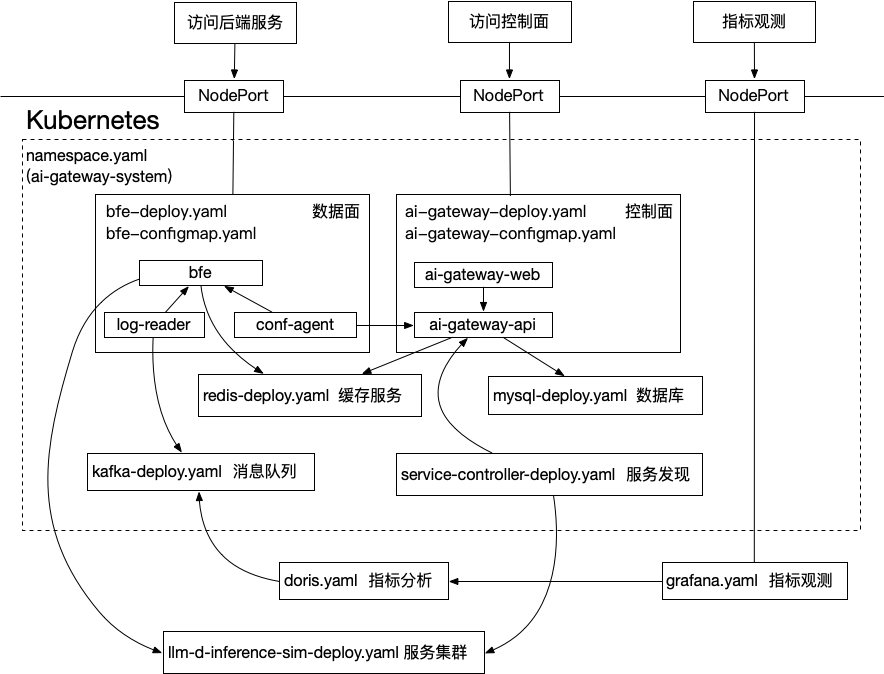
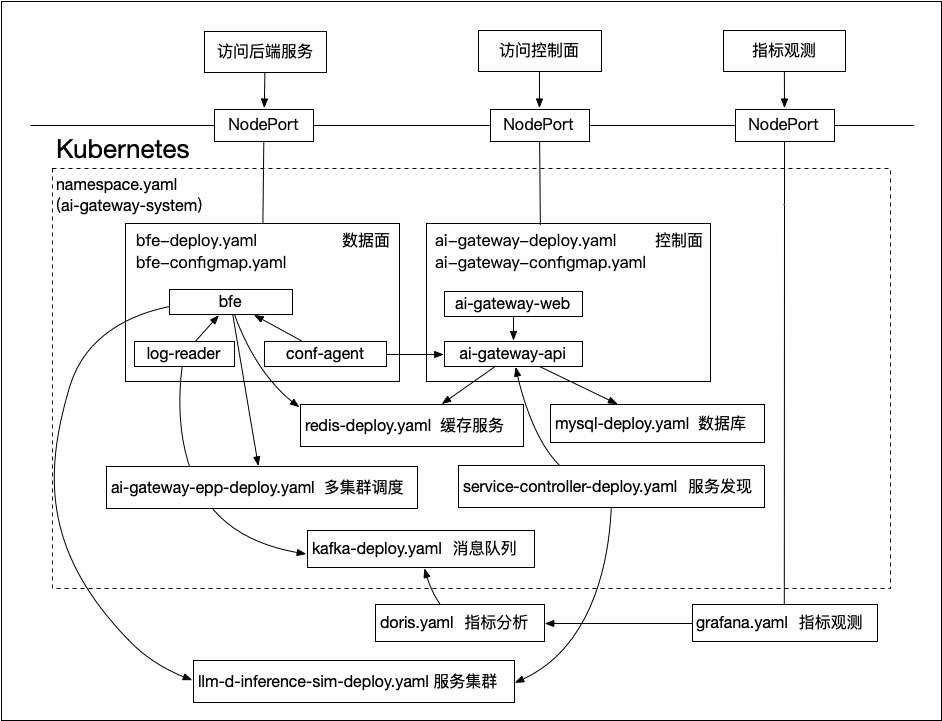
Update README and kustomization for EPP integration and version bump

diff --git a/README.md b/README.md
@@ -19,6 +19,7 @@ AI Gateway consists of the following core components:
 | **Dashboard** | Admin console | Web UI for visual management (bundled in API image) | [rainway-ai-gatewa/ai-gateway-web](https://github.com/rainway-ai-gateway/ai-gateway-web) |
 | **BFE** | Data plane | Traffic forwarding and access control | [bfenetworks/bfe](https://github.com/bfenetworks/bfe) |
 | **Conf Agent** | Config agent | Fetches config and triggers BFE hot reload | [bfenetworks/conf-agent](https://github.com/bfenetworks/conf-agent) |
+| **EPP** | Endpoint Picker | Multi-cluster endpoint discovery and routing | [rainway-ai-gateway/ai-gateway-epp](https://github.com/rainway-ai-gateway/ai-gateway-epp) |
 | **Log Reader** | Log collector | Reads BFE access logs and sends to Kafka | [bfenetworks/log-reader](https://github.com/bfenetworks/log-reader) |
 
 ## Key Features
@@ -109,7 +110,7 @@ docker compose --profile observability up -d
 Grafana: `http://localhost:3000` (admin / admin)
 Doris FE Web: `http://localhost:8030`
 
-> The Log Reader is built into the AI Gateway image and runs as the 3rd process alongside BFE and Conf Agent. It reads `pb_access3.log` and sends to Kafka. Its config is at `conf/log-reader/` and mounted into the container. If Kafka is unavailable, Log Reader retries silently without affecting traffic routing.
+> The Log Reader is built into the AI Gateway image and runs as another process alongside BFE, EPP, and Conf Agent. It reads `pb_access3.log` and sends to Kafka. Its config is at `conf/log-reader/` and mounted into the container. If Kafka is unavailable, Log Reader retries silently without affecting traffic routing.
 
 ### Manual Deployment (External MySQL / Redis)
 
@@ -223,6 +224,8 @@ Update `VERSIONS.yaml` → rebuild → tag a new product release.
 |---|---|---|
 | 8080 | BFE | HTTP entry |
 | 8443 | BFE | HTTPS entry |
+| 9002 | EPP | ext-proc gRPC (TLS) |
+| 9003 | EPP | Health check |
 | 8421 | BFE | Monitor |
 | 8183 | API Server | API + Dashboard |
 | 8284 | API Server | Monitor |
@@ -242,4 +245,5 @@ AI Gateway is released under the [Apache License 2.0](LICENSE).
 - [AI Gateway API](https://github.com/rainway-ai-gateway/ai-gateway-api) — Control plane
 - [AI Gateway Web](https://github.com/rainway-ai-gateway/ai-gateway-web) — Dashboard frontend
 - [Conf Agent](https://github.com/bfenetworks/conf-agent) — Configuration agent
+- [AI Gateway EPP](https://github.com/rainway-ai-gateway/ai-gateway-epp) — Endpoint Picker (multi-cluster scheduling)
 - [Log Reader](https://github.com/bfenetworks/log-reader) — Access log collector

diff --git a/kubernetes/README.md b/kubernetes/README.md
@@ -10,6 +10,7 @@ This deployment demonstrates the interaction of several key components in the `a
 
 - **Data plane** (bfe with conf-agent + log-reader): traffic forwarding, access control, and access log collection
 - **Control plane** (ai-gateway-api): configuration/policy delivery API
+- **Endpoint Picker** (epp / ai-gateway-epp): multi-cluster endpoint discovery, health-aware routing via gRPC ext-proc protocol
 - **Base dependencies** (MySQL, Redis, Kafka): storage and messaging services
 - ~~**Service discovery** (service-controller): discovers and syncs backend services~~ — temporarily disabled, pending refactor
 - **Demo backend** (llm-d inference simulator): validates routing
@@ -25,6 +26,7 @@ Optional observability stack (applied separately to `default` namespace):
 | conf-agent | ai-gateway-api | `ai-gateway-api.ai-gateway-system.svc.cluster.local:8183` |
 | ai-gateway-api | MySQL | `mysql.ai-gateway-system.svc.cluster.local:3306` |
 | bfe (SessionCache) | Redis | `redis.ai-gateway-system.svc.cluster.local:6379` |
+| bfe (bal_gslb) | ai-gateway-epp | `epp-0.ai-gateway-epp.ai-gateway-system.svc.cluster.local:9002` |
 | log-reader | Kafka | `kafka.ai-gateway-system.svc.cluster.local:9092` |
 | Doris Routine Load | Kafka | `kafka.ai-gateway-system.svc.cluster.local:9092` |
 | Grafana | Doris FE | `doris-fe.default.svc.cluster.local:9030` |
@@ -39,6 +41,7 @@ Optional observability stack (applied separately to `default` namespace):
 | `kustomization.yaml` | Kustomize resource aggregation and image overrides |
 | `bfe-configmap.yaml` | BFE config (bfe.conf, conf-agent.toml, log-reader config) |
 | `bfe-deploy.yaml` | BFE data plane Deployment (bfe + conf-agent + log-reader in single container) |
+| `ai-gateway-epp-deploy.yaml` | EPP StatefulSet (2 replicas) + headless Service + TLS ConfigMap |
 | `ai-gateway-configmap.yaml` | AI Gateway API configuration (DB/Redis, auth) |
 | `ai-gateway-deploy.yaml` | AI Gateway API Deployment and Service |
 | `mysql-deploy.yaml` | MySQL (Deployment, Service, init ConfigMap, init Job) |
@@ -80,7 +83,7 @@ images:
 kubectl apply -k .
 ```
 
-Deploys: bfe (with conf-agent + log-reader), ai-gateway-api (with Dashboard), mysql, redis, kafka. Service-controller is commented out in `kustomization.yaml` (pending refactor).
+Deploys: bfe (with conf-agent + log-reader), ai-gateway-epp, ai-gateway-api (with Dashboard), mysql, redis, kafka. Service-controller is commented out in `kustomization.yaml` (pending refactor).
 
 ### 3. Deploy Test Service (Optional)
 

diff --git a/README_CN.md b/README_CN.md
@@ -19,6 +19,7 @@ AI Gateway 包含如下核心组件：
 | **Dashboard** | 管理控制台 | Web 可视化管理界面（内置在 API 镜像中） | [rainway-ai-gatewa/ai-gateway-web](https://github.com/rainway-ai-gateway/ai-gateway-web) |
 | **BFE** | 数据面 | 负责流量转发与接入控制 | [bfenetworks/bfe](https://github.com/bfenetworks/bfe) |
 | **Conf Agent** | 配置代理 | 获取最新配置并触发 BFE 热加载 | [bfenetworks/conf-agent](https://github.com/bfenetworks/conf-agent) |
+| **EPP** | Endpoint Picker | 多集群调度服务（基于 llm-d-router） | [rainway-ai-gateway/ai-gateway-epp](https://github.com/rainway-ai-gateway/ai-gateway-epp) |
 | **Log Reader** | 日志采集 | 读取 BFE 访问日志并发送至 Kafka | [bfenetworks/log-reader](https://github.com/bfenetworks/log-reader) |
 
 ## 主要功能
@@ -109,7 +110,7 @@ docker compose --profile observability up -d
 Grafana：`http://localhost:3000`（admin / admin）
 Doris FE Web：`http://localhost:8030`
 
-> Log Reader 内置于 AI Gateway 镜像中，作为第 3 个进程与 BFE、Conf Agent 并行运行。它读取 `pb_access3.log` 并发送至 Kafka，配置位于 `conf/log-reader/`。若 Kafka 不可用，Log Reader 静默重试，不影响流量路由。
+> Log Reader 内置于 AI Gateway 镜像中，与 BFE、EPP、Conf Agent 并行运行。它读取 `pb_access3.log` 并发送至 Kafka，配置位于 `conf/log-reader/`。若 Kafka 不可用，Log Reader 静默重试，不影响流量路由。
 
 ### 手动部署（自行准备 MySQL / Redis）
 
@@ -222,6 +223,8 @@ components:
 | 8080 | BFE | HTTP 流量入口 |
 | 8443 | BFE | HTTPS 流量入口 |
 | 8421 | BFE | 监控端口 |
+| 9002 | EPP | ext-proc gRPC（TLS） |
+| 9003 | EPP | Health check |
 | 8183 | API Server | API 服务 + Dashboard |
 | 8284 | API Server | 监控端口 |
 | 8992 | Log Reader | 监控端口（Kafka 计数器） |
@@ -240,4 +243,5 @@ AI Gateway 基于 [Apache License 2.0](LICENSE) 发布。
 - [AI Gateway API](https://github.com/rainway-ai-gateway/ai-gateway-api) — 控制面
 - [AI Gateway Web](https://github.com/rainway-ai-gateway/ai-gateway-web) — Dashboard 前端
 - [Conf Agent](https://github.com/bfenetworks/conf-agent) — 配置代理
+- [AI Gateway EPP](https://github.com/rainway-ai-gateway/ai-gateway-epp) — Endpoint Picker（多集群调度）
 - [Log Reader](https://github.com/bfenetworks/log-reader) — 访问日志采集

diff --git a/kubernetes/README_CN.md b/kubernetes/README_CN.md
@@ -9,6 +9,7 @@
 本部署在 `ai-gateway-system` 命名空间中演示了各关键组件的交互：
 
 - **数据面**（bfe + conf-agent + log-reader）：流量转发、接入控制与访问日志采集
+- **EPP**（ai-gateway-epp）：多集群调度，连接控制面 InnerAPI
 - **控制面**（ai-gateway-api）：策略/配置下发接口
 - **基础依赖**（MySQL、Redis、Kafka）：为控制面提供存储与消息服务
 - ~~**服务发现**（service-controller）：发现并同步后端服务~~ — 暂未启用，正在重构中
@@ -25,6 +26,7 @@
 | conf-agent | ai-gateway-api | `ai-gateway-api.ai-gateway-system.svc.cluster.local:8183` |
 | ai-gateway-api | MySQL | `mysql.ai-gateway-system.svc.cluster.local:3306` |
 | bfe（SessionCache） | Redis | `redis.ai-gateway-system.svc.cluster.local:6379` |
+| bfe（bal_gslb） | ai-gateway-epp | `epp-0.ai-gateway-epp.ai-gateway-system.svc.cluster.local:9002` |
 | log-reader | Kafka | `kafka.ai-gateway-system.svc.cluster.local:9092` |
 | Doris Routine Load | Kafka | `kafka.ai-gateway-system.svc.cluster.local:9092` |
 | Grafana | Doris FE | `doris-fe.default.svc.cluster.local:9030` |
@@ -39,6 +41,7 @@
 | `kustomization.yaml` | Kustomize 资源汇总与镜像覆盖 |
 | `bfe-configmap.yaml` | BFE 配置（bfe.conf、conf-agent.toml、log-reader 配置） |
 | `bfe-deploy.yaml` | BFE 数据面 Deployment（单容器内含 bfe + conf-agent + log-reader） |
+| `ai-gateway-epp-deploy.yaml` | EPP StatefulSet（2 副本） + Headless Service + TLS ConfigMap |
 | `ai-gateway-configmap.yaml` | AI Gateway API 配置（DB/Redis、鉴权） |
 | `ai-gateway-deploy.yaml` | AI Gateway API Deployment 与 Service |
 | `mysql-deploy.yaml` | MySQL（Deployment、Service、初始化 ConfigMap、初始化 Job） |
@@ -80,7 +83,7 @@ images:
 kubectl apply -k .
 ```
 
-部署：bfe（含 conf-agent + log-reader）、ai-gateway-api（含 Dashboard）、mysql、redis、kafka。service-controller 已在 `kustomization.yaml` 中注释（重构中暂未启用）。
+部署：bfe（含 conf-agent + log-reader）、ai-gateway-epp、ai-gateway-api（含 Dashboard）、mysql、redis、kafka。service-controller 已在 `kustomization.yaml` 中注释（重构中暂未启用）。
 
 ### 3. 部署测试服务（可选）
 
